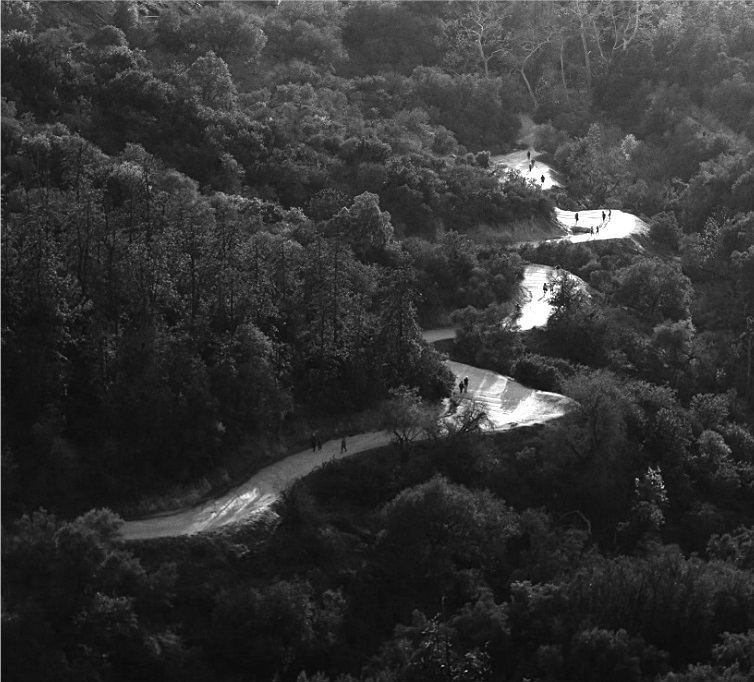
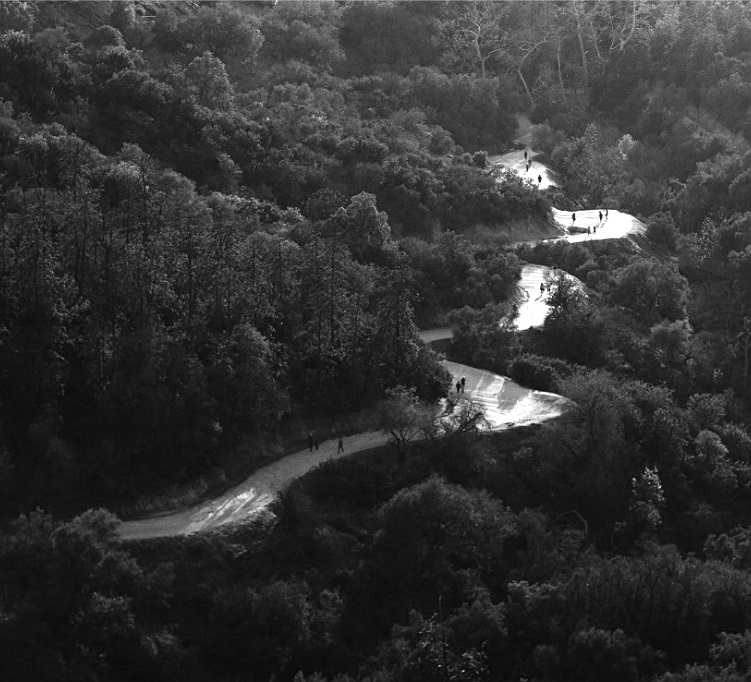
decrease image brightness

diff --git a/src/components/image.js b/src/components/image.js
@@ -31,7 +31,7 @@ const Image = props => (
       }
 
       const imageFluid = image.node.childImageSharp.fluid
-      return <Img alt={props.alt} fluid={imageFluid} style={{height: "100%"}} />
+      return <Img alt={props.alt} fluid={imageFluid} style={{height: "100%", opacity: "0.75"}} />
     }}
   />
 )

diff --git a/src/components/projectCard.js b/src/components/projectCard.js
@@ -27,7 +27,7 @@ const Container = styled.div`
 `
 
 const ImageWrapper = styled.div`
-  background-color: #333;
+  background-color: #1a1a1a;
   width: 100%;
   height: calc(100vw - 60px);
   max-height: 300px;
